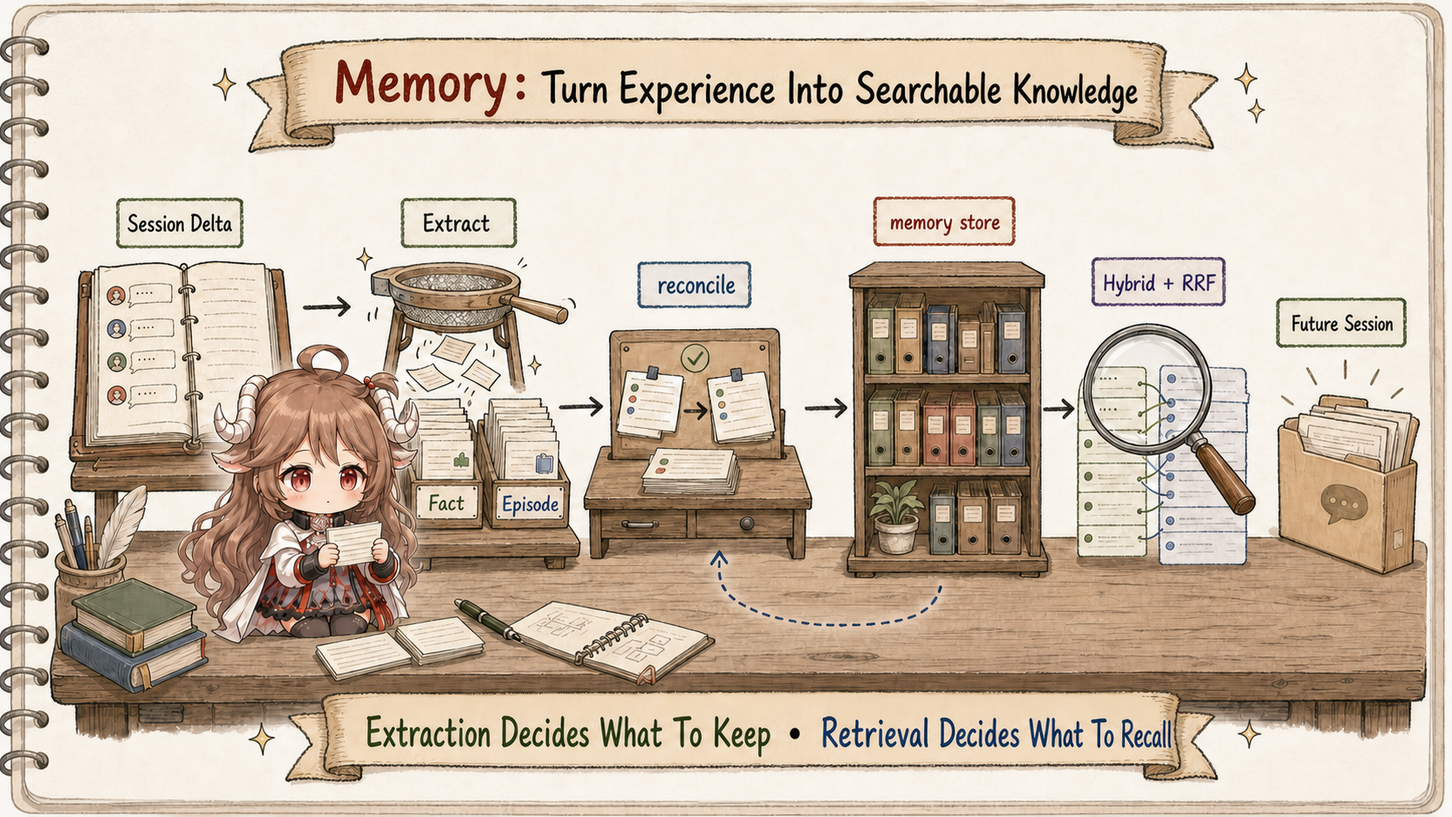
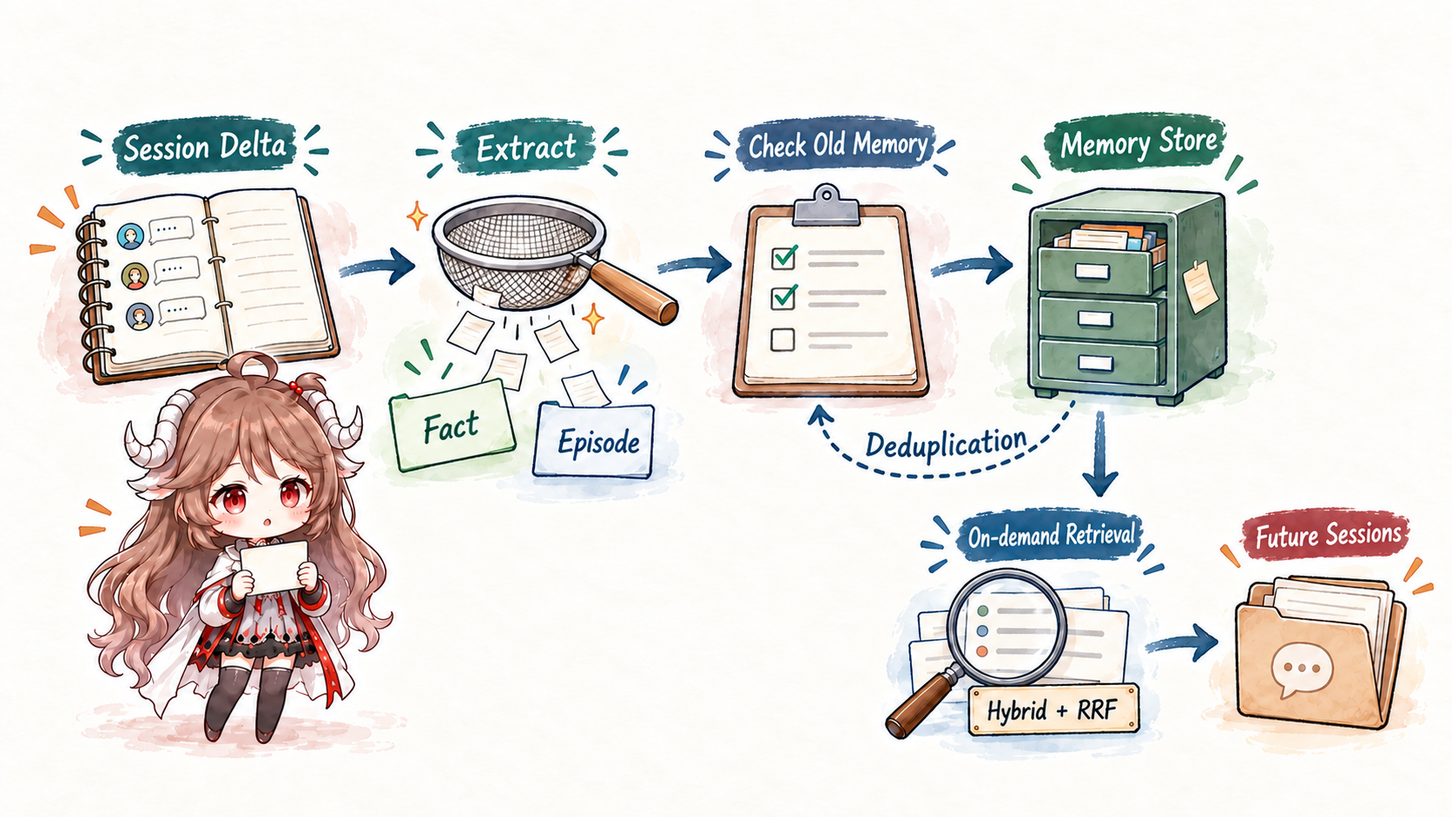
Update tRPC memory policies and durable update contracts

diff --git a/agent-framework/en/trpc-agent-go-memory/index.html b/agent-framework/en/trpc-agent-go-memory/index.html
@@ -66,12 +66,12 @@
               follows Rememorio's implementation and tests it against 1,986 questions from LoCoMo-10.
             </p>
             <div class="meta-line"><span>Topic: Durable Memory</span><span>Write: delta → extract → reconcile</span><span>Store: Fact / Episode</span><span>Read: Hybrid + RRF</span><span>Evidence: LoCoMo-10</span></div>
-            <figure class="hero-image"><img src="../assets/trpc-agent-go-memory-lifecycle.png" alt="Hand-drawn tRPC-Agent-Go Memory lifecycle: a session delta is extracted into Fact and Episode cards, reconciled into a memory store, and retrieved with Hybrid plus RRF for a future session. The invariant says extraction decides what to keep and retrieval decides what to recall." /></figure>
+            <figure class="hero-image"><img src="../assets/trpc-agent-go-memory-lifecycle.png" alt="tRPC-Agent-Go Memory lifecycle: session deltas yield Facts and Episodes, pass old-memory checks into storage, and reach later sessions through Hybrid + RRF retrieval." /><figcaption>“Check Old Memory” summarizes the default similarity-merge path; history-preserving and append-only policies also enforce their rules before writing. Hybrid + RRF denotes supporting backends; a future session sees memories only after preload or explicit retrieval.</figcaption></figure>
           </section>
 
           <section class="article-body">
             <div class="note key-point"><p><strong>Separate the two record types first.</strong> The previous chapter uses Summary and Session Recall to shorten a current session and recover raw evidence. Memory asks which knowledge should survive into another session. Both help a model recall the past, but they read from and write to different places.</p></div>
-            <div class="note"><p><strong>Source scope.</strong> Implementation links are pinned to public snapshot <code>0c7774187da9330144df2a038ef18ee89ef2ae1c</code>; experiments are pinned to benchmark snapshot <code>c9aabe56c0eb1cb80e927d2a34ecc72658173cbe</code>. Rememorio introduced the initial service in the <a href="https://github.com/trpc-group/trpc-agent-go/commit/b86db0de90d13b6fccd4c98795403029fd95f5f9">commit corresponding to #70</a>. Results describe one model, prompt, storage backend, and retrieval budget; they are not a universal deployment guarantee.</p></div>
+            <div class="note"><p><strong>Source scope.</strong> Implementation links are pinned to public snapshot <code>e76458566eece2ca33c3da28fadd1691929fb46a</code>; experiments are pinned to benchmark snapshot <code>c9aabe56c0eb1cb80e927d2a34ecc72658173cbe</code>. Rememorio introduced the initial service in the <a href="https://github.com/trpc-group/trpc-agent-go/commit/b86db0de90d13b6fccd4c98795403029fd95f5f9">commit corresponding to #70</a>. Results describe one model, prompt, storage backend, and retrieval budget; they are not a universal deployment guarantee.</p></div>
             <div class="note"><p><strong>Questions this article answers.</strong> Keep one fact in view: “the user upgraded production from Go 1.23 to 1.24.” By the end, you should be able to explain which delta Runner hands off, why the extractor proposes update rather than add, how deterministic reconcile prevents duplicate writes, where the final entry lives, and how a new Session retrieves it within a bounded budget.</p></div>
 
             <h2>1. Why Summary cannot double as Memory</h2>
@@ -89,7 +89,7 @@
             <p>
               Source types encode that distinction. <code>KindFact</code> covers preferences, identity, and background; <code>KindEpisode</code>
               covers an event at a time and may carry <code>event_time</code>, <code>participants</code>, and <code>location</code>. Entries are isolated
-              by <code>AppName + UserID</code>. See <a href="https://github.com/trpc-group/trpc-agent-go/blob/0c7774187da9330144df2a038ef18ee89ef2ae1c/memory/memory.go#L213-L247"><code>Kind</code>, <code>Memory</code>, and <code>Entry</code></a>.
+              by <code>AppName + UserID</code>. See <a href="https://github.com/trpc-group/trpc-agent-go/blob/e76458566eece2ca33c3da28fadd1691929fb46a/memory/memory.go#L218-L252"><code>Kind</code>, <code>Memory</code>, and <code>Entry</code></a>.
             </p>
 
             <h2 id="memory-lifecycle">2. Follow one Fact through the write lifecycle</h2>
@@ -97,8 +97,8 @@
             <p>
               Auto memory does not write after every sentence. After a run, the service hands Session to a worker. The worker reads the last extraction
               timestamp, scans newer events, keeps non-empty user and assistant text, and excludes tool messages and tool calls. A checker may stop here
-              when the delta is not worth extracting. See <a href="https://github.com/trpc-group/trpc-agent-go/blob/0c7774187da9330144df2a038ef18ee89ef2ae1c/memory/internal/memory/auto.go#L267-L339"><code>EnqueueJob</code></a>
-              and <a href="https://github.com/trpc-group/trpc-agent-go/blob/0c7774187da9330144df2a038ef18ee89ef2ae1c/memory/internal/memory/auto.go#L694-L739"><code>scanDeltaSince</code></a>.
+              when the delta is not worth extracting. See <a href="https://github.com/trpc-group/trpc-agent-go/blob/e76458566eece2ca33c3da28fadd1691929fb46a/memory/internal/memory/auto.go#L339-L415"><code>EnqueueJob</code></a>
+              and <a href="https://github.com/trpc-group/trpc-agent-go/blob/e76458566eece2ca33c3da28fadd1691929fb46a/memory/internal/memory/auto.go#L799-L855"><code>scanDeltaSince</code></a>.
             </p>
             <pre><code class="language-text">full Session
   └─ delta after last extraction
@@ -113,7 +113,7 @@ MemoryJob = {UserKey, delta messages, latest timestamp}</code></pre>
               <code>func(*ExtractionContext) bool</code>, that receives the user key, filtered delta messages, and optional last-extraction time.
               No configured checker means proceed. Built-ins include “message count is strictly greater than n” and “more than this interval has elapsed,”
               while <code>ChecksAll</code> and <code>ChecksAny</code> compose AND and OR policies. False is a normal no-op: no extractor call, no Memory write,
-              and no cursor advance. The interface has no error channel. See <a href="https://github.com/trpc-group/trpc-agent-go/blob/0c7774187da9330144df2a038ef18ee89ef2ae1c/memory/extractor/checker.go#L20-L85"><code>Checker</code> and its built-ins</a>.
+              and no cursor advance. The interface has no error channel. See <a href="https://github.com/trpc-group/trpc-agent-go/blob/e76458566eece2ca33c3da28fadd1691929fb46a/memory/extractor/checker.go#L20-L85"><code>Checker</code> and its built-ins</a>.
             </p>
             <pre><code class="language-go">// memory/extractor/checker.go and memory.go (excerpt)
 type Checker func(ctx *ExtractionContext) bool
@@ -158,8 +158,8 @@ func (e *memoryExtractor) ShouldExtract(ctx *ExtractionContext) bool {
             <p>
               If the store already says "Go 1.23" and the new conversation says "we upgraded to 1.24," a blind append creates a conflict. The worker
               builds a query from the new user messages, retrieves related entries, and gives both old memories and new conversation to the extractor.
-              The model proposes add, update, delete, or clear operations rather than free-form prose. See <a href="https://github.com/trpc-group/trpc-agent-go/blob/0c7774187da9330144df2a038ef18ee89ef2ae1c/memory/internal/memory/auto.go#L410-L451"><code>createAutoMemory</code></a>
-              and <a href="https://github.com/trpc-group/trpc-agent-go/blob/0c7774187da9330144df2a038ef18ee89ef2ae1c/memory/extractor/memory.go#L110-L182"><code>Extract</code></a>.
+              The model proposes add, update, delete, or clear operations rather than free-form prose. See <a href="https://github.com/trpc-group/trpc-agent-go/blob/e76458566eece2ca33c3da28fadd1691929fb46a/memory/internal/memory/auto.go#L486-L554"><code>createAutoMemory</code></a>
+              and <a href="https://github.com/trpc-group/trpc-agent-go/blob/e76458566eece2ca33c3da28fadd1691929fb46a/memory/extractor/memory.go#L115-L215"><code>Extract</code></a>.
             </p>
             <p>
               Existing-memory lookup has its own fallback. When relevance search fails, the worker reads a small recent set as deduplication context.
@@ -186,7 +186,7 @@ extractor proposal
 
             <h3>2.4 Reconcile stops paraphrased duplicates before the store</h3>
             <p>
-              The model may still propose add for the upgrade. For each add, the worker retrieves at most three candidates and compares two independent signals:
+              Under the default <code>merge_similar</code> policy, the model may still propose add for the upgrade. For each add, the worker retrieves at most three candidates and compares two independent signals:
               the backend's relevance score and token-level Jaccard overlap. The signals use logical OR. Vector stores are good at semantic paraphrase;
               keyword stores often produce lower BM25-like scores; Jaccard catches common entity names and exact versions.
             </p>
@@ -215,13 +215,21 @@ func reconcileDecisionTier(score, jaccard float64) int {
               Candidate tier is compared before score and Jaccard, so a clear duplicate is not displaced by a merely related entry with a slightly higher score.
               A reconcile-search failure preserves the extractor's original operation rather than dropping uncertain data. If add becomes update but the deployment
               disables update, the worker falls back to the original add. <strong>The LLM proposes semantic operations; deterministic code owns idempotence
-              and capability boundaries.</strong> See the <a href="https://github.com/trpc-group/trpc-agent-go/blob/0c7774187da9330144df2a038ef18ee89ef2ae1c/memory/internal/memory/auto.go#L30-L121">reconcile tiers</a>.
+              and capability boundaries.</strong> See the <a href="https://github.com/trpc-group/trpc-agent-go/blob/e76458566eece2ca33c3da28fadd1691929fb46a/memory/internal/memory/auto.go#L33-L124">reconcile tiers</a>.
             </p>
             <p>
               The switch makes “either condition” literal. Search score and Jaccard are not added into an undocumented composite score; they are independent
               evidence sources. The high tier appears first, so a candidate satisfying both skip and update always becomes skip. Only two weak signals preserve
               the original add. The model proposes an operation, while ordinary Go control flow owns the final tier.
             </p>
+
+            <p>Similarity merging is not right for every application. If the Go upgrade example must later answer “which version preceded the upgrade?”, replacing the old fact loses useful history. The built-in extractor's <a href="https://github.com/trpc-group/trpc-agent-go/blob/e76458566eece2ca33c3da28fadd1691929fb46a/memory/extractor/policy.go#L17-L35"><code>WithUpdatePolicy</code></a> exposes two opt-in alternatives; leaving it unset preserves the default above.</p>
+            <div class="table-wrap"><table><thead><tr><th>Policy</th><th>Storing the Go version change</th><th>Worker enforcement</th></tr></thead><tbody>
+              <tr><td><code>merge_similar</code> (default)</td><td>A similar fact may update the old entry.</td><td>Uses the score / Jaccard reconcile described above.</td></tr>
+              <tr><td><code>preserve_history</code></td><td>Prefer another entry for corrections and state changes.</td><td>Only non-conflicting enrichment that retains the old details can update; uncertain matches become adds.</td></tr>
+              <tr><td><code>append_only</code></td><td>Add the new version; skip exact duplicates.</td><td>The model sees only add; the worker also converts unexpected updates to adds and filters delete / clear.</td></tr>
+            </tbody></table></div>
+            <p>This is more than prompt advice. <a href="https://github.com/trpc-group/trpc-agent-go/blob/e76458566eece2ca33c3da28fadd1691929fb46a/memory/internal/memory/auto_policy.go#L65-L131"><code>applyUpdatePolicy</code></a> dispatches again before storage. History preservation uses deterministic text and metadata checks, not a guarantee that every semantic conflict is understood. Keeping old entries also enlarges retrieval candidates, so readers still need time and provenance to choose the applicable version.</p>
 
             <h3>2.5 The write completion point controls retry</h3>
             <p>
@@ -239,7 +247,7 @@ func reconcileDecisionTier(score, jaccard float64) int {
               Session, not the Memory store, owns this incremental cursor. The framework writes the timestamp of the last included Event to
               <code>Session.State["memory:last_extract_at"]</code>. It is not in one storage transaction with add, update, or delete, so it means
               “the worker processed through this point,” not “every Memory operation in the batch committed.” Production observability needs both operation-level
-              errors and this cursor. See <a href="https://github.com/trpc-group/trpc-agent-go/blob/0c7774187da9330144df2a038ef18ee89ef2ae1c/memory/internal/memory/auto.go#L673-L691"><code>readLastExtractAt</code> and <code>writeLastExtractAt</code></a>.
+              errors and this cursor. See <a href="https://github.com/trpc-group/trpc-agent-go/blob/e76458566eece2ca33c3da28fadd1691929fb46a/memory/internal/memory/auto.go#L778-L796"><code>readLastExtractAt</code> and <code>writeLastExtractAt</code></a>.
             </p>
             <p>
               Carrying <code>memory-17</code> through the remaining stages exposes what still separates a model proposal from cross-session recall:
@@ -270,17 +278,16 @@ func reconcileDecisionTier(score, jaccard float64) int {
      -&gt; preload / search
      -&gt; this model request sees Go 1.24</code></pre>
             <p>
-              The update request locates its target with the old ID. Some content-addressed backends rotate to a canonical ID derived from the new
-              content and metadata, while others may update in place. The durable cross-session partition is therefore
-              <code>AppName + UserID</code>, not an application holding <code>memory-17</code> forever. Only stage 3 creates durable Memory;
-              only a preload or active search hit in stage 4 makes that Memory adopted by a later model call.
+              The update locates an active source by its old ID. Changed content or identity-bearing episode metadata can rotate the canonical ID; unchanged identity updates in place, and topics do not determine identity. In-memory, Redis, and SQL backends now share the same contract: an active target conflict leaves both records unchanged; a missing or soft-deleted target can receive the rotation. <code>UpdateResult.MemoryID</code> changes only after successful persistence and remains unchanged on error. See the <a href="https://github.com/trpc-group/trpc-agent-go/blob/e76458566eece2ca33c3da28fadd1691929fb46a/memory/memory.go#L180-L193">update contract</a>. Across Sessions, use <code>AppName + UserID</code> to retrieve the user's memories instead of treating an old memory ID as permanent. Step 3 must succeed for durable memory to exist; step 4 must retrieve it before the model actually uses it.
             </p>
+
+            <p><a href="https://github.com/trpc-group/trpc-agent-go/blob/e76458566eece2ca33c3da28fadd1691929fb46a/memory/extractor/assistant.go#L75-L145"><code>WithAssistantEpisodeExtraction</code></a> adds an optional second stage: after ordinary extraction, it selects reusable user/assistant pairs and stores the assistant's advice as ordinary Episodes. It is off by default and introduces no new memory kind. No eligible pair, disabled add, or an ambiguous deletion scope skips this stage. Its own failure normally preserves ordinary operations; cancellation of the parent job still returns an error. Future turns can remember “what troubleshooting was suggested” without claiming the user performed it. This is also separate from the next chapter's Skill publication.</p>
 
             <h3>2.6 Storage fields exist to support retrieval</h3>
             <p>
               Fact versus Episode, absolute time, topics, participants, and location matter at query time. "What happened first?" needs event-time ordering;
               "which mountain did Alice visit?" must validate participants; proper nouns often need lexical matching. Search options therefore include kind,
-              time ranges, ordering, deduplication, hybrid search, and RRF. See <a href="https://github.com/trpc-group/trpc-agent-go/blob/0c7774187da9330144df2a038ef18ee89ef2ae1c/memory/memory.go#L277-L320"><code>SearchOptions</code></a>.
+              time ranges, ordering, deduplication, hybrid search, and RRF. See <a href="https://github.com/trpc-group/trpc-agent-go/blob/e76458566eece2ca33c3da28fadd1691929fb46a/memory/memory.go#L282-L325"><code>SearchOptions</code></a>.
             </p>
 
             <h2>3. Read Memory into a new Session, then make retrieval precise</h2>
@@ -327,7 +334,7 @@ return newPreloadMemoryMessage(memories, p.PreloadMemoryPlaybook)</code></pre>
               A small set does not need a relevance search. Above the budget, the processor derives a query from the current user message. A search error or
               empty result falls back to reading the most recent N entries. If the probe or fallback read also fails, this request gets no Memory injection but
               still proceeds. Preloaded content is a system message by default, with an option to place it near user/history context. Follow the complete branch in
-              <a href="https://github.com/trpc-group/trpc-agent-go/blob/0c7774187da9330144df2a038ef18ee89ef2ae1c/internal/flow/processor/content.go#L3192-L3294"><code>getPreloadMemoryMessage</code></a>.
+              <a href="https://github.com/trpc-group/trpc-agent-go/blob/e76458566eece2ca33c3da28fadd1691929fb46a/internal/flow/processor/content.go#L4112-L4214"><code>getPreloadMemoryMessage</code></a>.
             </p>
             <p>
               <code>budget+1</code> is a small but important implementation trick: the processor avoids an expensive count by reading only one entry beyond the
@@ -346,7 +353,7 @@ return newPreloadMemoryMessage(memories, p.PreloadMemoryPlaybook)</code></pre>
             <p>
               Vector search handles paraphrase but may under-rank book titles, place names, and exact versions. Keyword search handles exact strings but not
               semantic rewrites. The pgvector backend runs vector and full-text search, merges ranks through Reciprocal Rank Fusion, retries without a kind
-              filter when that filter returns too little, then deduplicates content. The order is visible in <a href="https://github.com/trpc-group/trpc-agent-go/blob/0c7774187da9330144df2a038ef18ee89ef2ae1c/memory/pgvector/service.go#L540-L645"><code>SearchMemories</code></a>.
+              filter when that filter returns too little, then deduplicates content. The order is visible in <a href="https://github.com/trpc-group/trpc-agent-go/blob/e76458566eece2ca33c3da28fadd1691929fb46a/memory/pgvector/service.go#L721-L826"><code>SearchMemories</code></a>.
             </p>
             <pre><code class="language-text">vector rank:   [Mt. Fuji trip, hiking preference, Alice profile]
 keyword rank:  [Alice + Mt. Fuji, Mt. Fuji trip]
@@ -376,7 +383,7 @@ dedupe:        remove near-identical restatements</code></pre>
             <p>
               "What did Alice buy before Japan, and what did she do after returning?" often exceeds one top-k. The optimized benchmark agent uses two or
               three short searches from entity, time, and sub-question angles, then combines evidence. Tool guidance explicitly recommends separate searches
-              for multi-part questions and checking participants before using a result. See <a href="https://github.com/trpc-group/trpc-agent-go/blob/0c7774187da9330144df2a038ef18ee89ef2ae1c/memory/tool/tool.go#L249-L310"><code>memory_search</code></a>.
+              for multi-part questions and checking participants before using a result. See <a href="https://github.com/trpc-group/trpc-agent-go/blob/e76458566eece2ca33c3da28fadd1691929fb46a/memory/tool/tool.go#L249-L310"><code>memory_search</code></a>.
             </p>
             <p>That choice is not free. Repeated searches make the model reread prior context, increasing both tokens and latency. A useful benchmark must report Tokens/QA, Calls/QA, and latency beside F1.</p>
 
@@ -464,11 +471,11 @@ dedupe:        remove near-identical restatements</code></pre>
 
             <h2 id="sources">Sources and experiments</h2>
             <ul>
-              <li><a href="https://github.com/trpc-group/trpc-agent-go/tree/0c7774187da9330144df2a038ef18ee89ef2ae1c">tRPC-Agent-Go public source snapshot</a></li>
-              <li><a href="https://github.com/trpc-group/trpc-agent-go/blob/0c7774187da9330144df2a038ef18ee89ef2ae1c/memory/memory.go">Memory service, entry, and search contracts</a></li>
-              <li><a href="https://github.com/trpc-group/trpc-agent-go/blob/0c7774187da9330144df2a038ef18ee89ef2ae1c/memory/internal/memory/auto.go">Auto-memory worker</a></li>
-              <li><a href="https://github.com/trpc-group/trpc-agent-go/blob/0c7774187da9330144df2a038ef18ee89ef2ae1c/memory/extractor/memory.go">Memory extractor</a></li>
-              <li><a href="https://github.com/trpc-group/trpc-agent-go/blob/0c7774187da9330144df2a038ef18ee89ef2ae1c/memory/pgvector/service.go">pgvector hybrid retrieval</a></li>
+              <li><a href="https://github.com/trpc-group/trpc-agent-go/tree/e76458566eece2ca33c3da28fadd1691929fb46a">tRPC-Agent-Go public source snapshot</a></li>
+              <li><a href="https://github.com/trpc-group/trpc-agent-go/blob/e76458566eece2ca33c3da28fadd1691929fb46a/memory/memory.go">Memory service, entry, and search contracts</a></li>
+              <li><a href="https://github.com/trpc-group/trpc-agent-go/blob/e76458566eece2ca33c3da28fadd1691929fb46a/memory/internal/memory/auto.go">Auto-memory worker</a></li>
+              <li><a href="https://github.com/trpc-group/trpc-agent-go/blob/e76458566eece2ca33c3da28fadd1691929fb46a/memory/extractor/memory.go">Memory extractor</a></li>
+              <li><a href="https://github.com/trpc-group/trpc-agent-go/blob/e76458566eece2ca33c3da28fadd1691929fb46a/memory/pgvector/service.go">pgvector hybrid retrieval</a></li>
               <li><a href="https://github.com/trpc-group/trpc-agent-go-benchmark/blob/c9aabe56c0eb1cb80e927d2a34ecc72658173cbe/memory/results/REPORT.md">LoCoMo-10 Memory benchmark report</a></li>
             </ul>
           </section>

diff --git a/agent-framework/zh/trpc-agent-go-memory/index.html b/agent-framework/zh/trpc-agent-go-memory/index.html
@@ -68,13 +68,13 @@
               <span>主题：长期 Memory</span><span>写入：delta → extract → reconcile</span><span>存储：Fact / Episode</span><span>读取：Hybrid + RRF</span><span>证据：LoCoMo-10</span>
             </div>
             <figure class="hero-image">
-              <img src="../assets/trpc-agent-go-memory-lifecycle.png" alt="tRPC-Agent-Go Memory 手绘生命周期：会话增量经过提取形成 Fact 与 Episode，经 reconcile 写入 memory store，再由 Hybrid + RRF 检索进入未来会话；底部结论是抽取决定写什么，检索决定想起什么。" />
-            </figure>
+              <img src="../assets/trpc-agent-go-memory-lifecycle.png" alt="tRPC-Agent-Go Memory 生命周期：会话增量经过提取形成 Fact 与 Episode，核对旧记忆后写入存储，再由 Hybrid + RRF 检索进入后续会话。" />
+            <figcaption>图中“核对旧记忆”概括默认的相似度合并路径；历史保留与只追加策略仍在写入前执行约束。Hybrid + RRF 代表支持该能力的检索后端，Memory 必须被预载或主动查询命中后才进入未来会话。</figcaption></figure>
           </section>
 
           <section class="article-body">
             <div class="note key-point"><p><strong>先分清两类记录。</strong>上一篇的 Summary 与 Session Recall 负责“当前会话怎样压短、怎样找回原始事件”；这一篇的 Memory 负责“哪些知识值得跨会话留下”。它们都能帮助模型想起过去，但读取和写入的位置不同。</p></div>
-            <div class="note"><p><strong>本文依据。</strong>实现链接固定到公开快照 <code>0c7774187da9330144df2a038ef18ee89ef2ae1c</code>，实验链接固定到 Benchmark 快照 <code>c9aabe56c0eb1cb80e927d2a34ecc72658173cbe</code>。Memory 的初始服务由 Rememorio 在 <a href="https://github.com/trpc-group/trpc-agent-go/commit/b86db0de90d13b6fccd4c98795403029fd95f5f9">#70 对应提交</a>引入；本文数字是特定模型、Prompt、存储后端和检索预算下的实验结果，不外推成所有部署的保证。</p></div>
+            <div class="note"><p><strong>本文依据。</strong>实现链接固定到公开快照 <code>e76458566eece2ca33c3da28fadd1691929fb46a</code>，实验链接固定到 Benchmark 快照 <code>c9aabe56c0eb1cb80e927d2a34ecc72658173cbe</code>。Memory 的初始服务由 Rememorio 在 <a href="https://github.com/trpc-group/trpc-agent-go/commit/b86db0de90d13b6fccd4c98795403029fd95f5f9">#70 对应提交</a>引入；本文数字是特定模型、Prompt、存储后端和检索预算下的实验结果，不外推成所有部署的保证。</p></div>
             <div class="note"><p><strong>读完后你应该能回答。</strong>请一直跟踪“用户已经从 Go 1.23 升级到 1.24”这条信息：Runner 何时交出哪些新消息，Extractor 为什么提议 Update 而不是 Add，确定性 Reconcile 怎样避免重复写入，最终条目存在哪里，以及新 Session 如何在有限预算内把它找回来。</p></div>
 
             <h2>一、为什么 Summary 不能顺便充当 Memory</h2>
@@ -92,7 +92,7 @@
             <p>
               源码把这个区别做进数据结构：<code>KindFact</code> 表示偏好、身份和背景，<code>KindEpisode</code> 表示发生在某个时间的事件，
               还可以带 <code>event_time</code>、<code>participants</code> 与 <code>location</code>。条目按 <code>AppName + UserID</code> 隔离。
-              见 <a href="https://github.com/trpc-group/trpc-agent-go/blob/0c7774187da9330144df2a038ef18ee89ef2ae1c/memory/memory.go#L213-L247"><code>Kind</code>、<code>Memory</code> 与 <code>Entry</code></a>。
+              见 <a href="https://github.com/trpc-group/trpc-agent-go/blob/e76458566eece2ca33c3da28fadd1691929fb46a/memory/memory.go#L218-L252"><code>Kind</code>、<code>Memory</code> 与 <code>Entry</code></a>。
             </p>
 
             <h2 id="memory-lifecycle">二、跟着一条事实走完写入生命周期</h2>
@@ -100,8 +100,8 @@
             <p>
               Auto memory 不是每收到一句话就写库。run 完成后，服务把 Session 交给 worker；worker 读取上次抽取时间，扫描之后新增的事件，
               只保留有正文的 user / assistant 消息，跳过 tool message、tool call 和空内容。若 checker 判断这批增量还不值得抽取，就到此为止。
-              入口见 <a href="https://github.com/trpc-group/trpc-agent-go/blob/0c7774187da9330144df2a038ef18ee89ef2ae1c/memory/internal/memory/auto.go#L267-L339"><code>EnqueueJob</code></a>，
-              增量过滤见 <a href="https://github.com/trpc-group/trpc-agent-go/blob/0c7774187da9330144df2a038ef18ee89ef2ae1c/memory/internal/memory/auto.go#L694-L739"><code>scanDeltaSince</code></a>。
+              入口见 <a href="https://github.com/trpc-group/trpc-agent-go/blob/e76458566eece2ca33c3da28fadd1691929fb46a/memory/internal/memory/auto.go#L339-L415"><code>EnqueueJob</code></a>，
+              增量过滤见 <a href="https://github.com/trpc-group/trpc-agent-go/blob/e76458566eece2ca33c3da28fadd1691929fb46a/memory/internal/memory/auto.go#L799-L855"><code>scanDeltaSince</code></a>。
             </p>
             <pre><code class="language-text">完整 Session
   └─ 上次抽取点之后的 delta
@@ -116,7 +116,7 @@ MemoryJob = {UserKey, delta messages, latest timestamp}</code></pre>
               它能看到用户键、过滤后的增量消息和上次抽取时间；没有配置 checker 时默认通过。内置条件包括
               “消息数严格大于 n”与“距离上次抽取超过一段时间”，还可以用 <code>ChecksAll</code> / <code>ChecksAny</code>
               组合成 AND / OR。返回 false 是正常 no-op：不调用 extractor、不写 Memory，也不推进 cursor；这个接口本身没有 error 通道。
-              定义见 <a href="https://github.com/trpc-group/trpc-agent-go/blob/0c7774187da9330144df2a038ef18ee89ef2ae1c/memory/extractor/checker.go#L20-L85"><code>Checker</code> 与内置条件</a>。
+              定义见 <a href="https://github.com/trpc-group/trpc-agent-go/blob/e76458566eece2ca33c3da28fadd1691929fb46a/memory/extractor/checker.go#L20-L85"><code>Checker</code> 与内置条件</a>。
             </p>
             <pre><code class="language-go">// memory/extractor/checker.go 与 memory.go（节选）
 type Checker func(ctx *ExtractionContext) bool
@@ -161,8 +161,8 @@ func (e *memoryExtractor) ShouldExtract(ctx *ExtractionContext) bool {
             <p>
               如果库里已经有“用户使用 Go 1.23”，新对话说“已经升级到 1.24”，直接追加会制造冲突。worker 先用这批用户消息构造查询，
               找回相关旧条目，再把“旧记忆 + 新对话”一起交给 extractor。这样模型输出的不是一段自由文本，而是 add、update、delete 或 clear 操作。
-              路径在 <a href="https://github.com/trpc-group/trpc-agent-go/blob/0c7774187da9330144df2a038ef18ee89ef2ae1c/memory/internal/memory/auto.go#L410-L451"><code>createAutoMemory</code></a>；
-              extractor 把主 choice 的 tool calls 解析为操作，见 <a href="https://github.com/trpc-group/trpc-agent-go/blob/0c7774187da9330144df2a038ef18ee89ef2ae1c/memory/extractor/memory.go#L110-L182"><code>Extract</code></a>。
+              路径在 <a href="https://github.com/trpc-group/trpc-agent-go/blob/e76458566eece2ca33c3da28fadd1691929fb46a/memory/internal/memory/auto.go#L486-L554"><code>createAutoMemory</code></a>；
+              extractor 把主 choice 的 tool calls 解析为操作，见 <a href="https://github.com/trpc-group/trpc-agent-go/blob/e76458566eece2ca33c3da28fadd1691929fb46a/memory/extractor/memory.go#L115-L215"><code>Extract</code></a>。
             </p>
             <p>
               查旧条目本身也有降级：相关性搜索报错时，worker 读取少量最近 Memory 作为 dedup 上下文；只有搜索与 fallback read 都失败，
@@ -188,7 +188,7 @@ extractor 提议
 
             <h3>2.4 Reconcile 怎样把“换一种说法”挡在写库之前</h3>
             <p>
-              模型有时仍会把升级事实提议成 add。worker 会对每个 add 额外检索最多 3 条候选，并用两个独立信号比较：后端返回的相关分数，
+              默认 <code>merge_similar</code> 策略下，模型有时仍会把升级事实提议成 add。worker 会对每个 add 额外检索最多 3 条候选，并用两个独立信号比较：后端返回的相关分数，
               以及候选文本与旧条目的 token Jaccard 重合度。两个信号用“或”连接，是因为向量后端擅长语义改写，关键词后端的 BM25
               分数通常更低，而 Jaccard 能抓住版本号、实体名等共同词。
             </p>
@@ -217,13 +217,21 @@ func reconcileDecisionTier(score, jaccard float64) int {
               先比较层级，再比较 score 和 Jaccard，确保“明确重复”不会被另一条分数略高但只是相关的记忆抢走。
               reconcile 自身检索失败时保留 extractor 的原操作，而不是把不确定性当成重复并丢数据；若 add 被改成 update，
               但部署禁用了 update，则退回原 add。这里的设计原则才是：<strong>LLM 提议语义操作，确定性代码负责幂等与能力边界。</strong>
-              阈值与决策见 <a href="https://github.com/trpc-group/trpc-agent-go/blob/0c7774187da9330144df2a038ef18ee89ef2ae1c/memory/internal/memory/auto.go#L30-L121">reconcile tiers</a>。
+              阈值与决策见 <a href="https://github.com/trpc-group/trpc-agent-go/blob/e76458566eece2ca33c3da28fadd1691929fb46a/memory/internal/memory/auto.go#L33-L124">reconcile tiers</a>。
             </p>
             <p>
               这段 switch 解释了表格里的“满足任一条件”：搜索分数与 Jaccard 不是相加后再过一条神秘总分线，而是两个独立证据源。
               高阈值分支写在前面，所以同一候选同时满足 skip 与 update 时一定进入 skip；两个信号都不够才保留原 add。
               模型生成的是候选操作，最终 tier 完全由这段普通 Go 控制流决定。
             </p>
+
+            <p>相似度合并并不适合所有业务。仍用 Go 升级这个例子：如果系统要回答“升级前用什么版本”，覆盖旧事实就会丢掉历史。内置 extractor 的 <a href="https://github.com/trpc-group/trpc-agent-go/blob/e76458566eece2ca33c3da28fadd1691929fb46a/memory/extractor/policy.go#L17-L35"><code>WithUpdatePolicy</code></a> 因而允许显式选择另两种策略；不配置时仍保留上面的默认行为。</p>
+            <div class="table-wrap"><table><thead><tr><th>策略</th><th>Go 版本变化怎样保存</th><th>worker 的约束</th></tr></thead><tbody>
+              <tr><td><code>merge_similar</code>（默认）</td><td>相似事实可以更新旧条目。</td><td>继续使用上面的 score / Jaccard reconcile。</td></tr>
+              <tr><td><code>preserve_history</code></td><td>状态变化或纠正优先另存，保留旧版本。</td><td>只有保留原有细节的无冲突补充才更新；不确定的匹配退回 add。</td></tr>
+              <tr><td><code>append_only</code></td><td>另加新条目，精确重复不写。</td><td>只给模型 add 工具；worker 仍会把意外的 update 转为 add，并过滤 delete / clear。</td></tr>
+            </tbody></table></div>
+            <p>这不是只在 prompt 中劝模型谨慎。<a href="https://github.com/trpc-group/trpc-agent-go/blob/e76458566eece2ca33c3da28fadd1691929fb46a/memory/internal/memory/auto_policy.go#L65-L131"><code>applyUpdatePolicy</code></a> 在执行存储前再次分流；历史保留使用确定性的文本与元数据检查，不承诺理解所有语义冲突。保留历史也会扩大候选集合，读取端仍要用时间与来源选择适用版本。</p>
 
             <h3>2.5 写入成功点决定下一轮会不会重复抽取</h3>
             <p>
@@ -241,7 +249,7 @@ func reconcileDecisionTier(score, jaccard float64) int {
               这个增量 cursor 的所有者是 Session，而不是 Memory store：框架把最后一个已纳入抽取的 Event 时间写进
               <code>Session.State["memory:last_extract_at"]</code>。它与 add/update/delete 并不处在同一个存储事务里；因此它只能表示
               “worker 已经处理到哪里”，不能证明这一批每条 Memory 都写入成功。真正的运维信号必须同时包含操作级错误日志与该 cursor，
-              读写实现见 <a href="https://github.com/trpc-group/trpc-agent-go/blob/0c7774187da9330144df2a038ef18ee89ef2ae1c/memory/internal/memory/auto.go#L673-L691"><code>readLastExtractAt</code> / <code>writeLastExtractAt</code></a>。
+              读写实现见 <a href="https://github.com/trpc-group/trpc-agent-go/blob/e76458566eece2ca33c3da28fadd1691929fb46a/memory/internal/memory/auto.go#L778-L796"><code>readLastExtractAt</code> / <code>writeLastExtractAt</code></a>。
             </p>
             <p>
               把前面的 <code>memory-17</code> 继续走到底，就能看见“模型提议”和“跨会话记住”之间还隔着哪些状态：
@@ -271,16 +279,18 @@ func reconcileDecisionTier(score, jaccard float64) int {
      -&gt; preload / search
      -&gt; 本轮 model request 看见 Go 1.24</code></pre>
             <p>
-              更新请求用旧 ID 定位目标，但某些内容寻址后端会根据新正文与元数据生成新的 canonical ID，另一些后端可以原位更新；
+              更新请求用旧 ID 定位目标；新正文或参与身份计算的事件元数据变化时，会生成新的 canonical ID，只有身份未变才原位更新。<code>topics</code> 不参与身份计算。内存、Redis 与 SQL 后端现已统一轮换合同：源记录必须有效；目标已有效则报错且两条记录都不变；目标不存在或已软删除时才完成迁移。<code>UpdateResult.MemoryID</code> 只在成功持久化后写回，失败保持原值。见 <a href="https://github.com/trpc-group/trpc-agent-go/blob/e76458566eece2ca33c3da28fadd1691929fb46a/memory/memory.go#L180-L193">更新合同</a>。
               因此跨 Session 的稳定隔离键是 <code>AppName + UserID</code>，不是让业务代码长期记住 <code>memory-17</code>。
               只有第 3 步成功，才产生 durable Memory；只有第 4 步的 preload 或主动搜索命中，它才被后续模型实际采用。
             </p>
+
+            <p>另外，<a href="https://github.com/trpc-group/trpc-agent-go/blob/e76458566eece2ca33c3da28fadd1691929fb46a/memory/extractor/assistant.go#L75-L145"><code>WithAssistantEpisodeExtraction</code></a> 可显式开启第二阶段：普通抽取完成后，挑选有复用价值的 user/assistant 配对，把助手给出的方案保存为普通 Episode。默认关闭，也没有新增 memory kind。没有合格候选、禁止 add 或遗忘操作使来源不明确时，不启动这个阶段；它自身失败通常保留普通抽取结果，但父任务取消仍会返回错误。这样以后可以记住“曾建议怎样排障”，却不能把建议冒充已执行的用户事实，更不能等同于下一篇的 Skill 发布。</p>
 
             <h3>2.6 存储结构要为检索服务，不是为了字段好看</h3>
             <p>
               Fact / Episode、绝对时间、topic、参与者和地点，真正价值都在查询阶段。例如“我去年先去了哪里，再去了哪里”需要按 event time 排序；
               “Alice 去过哪座山”需要核对 participants；专有名词又常常需要关键词命中。对应搜索配置支持 kind、时间窗口、排序、去重、
-              hybrid search 与 RRF，见 <a href="https://github.com/trpc-group/trpc-agent-go/blob/0c7774187da9330144df2a038ef18ee89ef2ae1c/memory/memory.go#L277-L320"><code>SearchOptions</code></a>。
+              hybrid search 与 RRF，见 <a href="https://github.com/trpc-group/trpc-agent-go/blob/e76458566eece2ca33c3da28fadd1691929fb46a/memory/memory.go#L282-L325"><code>SearchOptions</code></a>。
             </p>
 
             <h2>三、从新 Session 读回记忆，再谈怎样搜得准</h2>
@@ -327,7 +337,7 @@ return newPreloadMemoryMessage(memories, p.PreloadMemoryPlaybook)</code></pre>
               小集合不必花一次相关性搜索；超过预算后，processor 才用当前 user message 做 query。搜索报错或返回空集时，会降级读取最近 N 条；
               probe 或 fallback read 也失败时，本轮不注入 Memory，但请求仍继续。预载内容默认作为 system message 放进 prompt，也可以切到
               user/history 附近的注入模式。整条分支见
-              <a href="https://github.com/trpc-group/trpc-agent-go/blob/0c7774187da9330144df2a038ef18ee89ef2ae1c/internal/flow/processor/content.go#L3192-L3294"><code>getPreloadMemoryMessage</code></a>。
+              <a href="https://github.com/trpc-group/trpc-agent-go/blob/e76458566eece2ca33c3da28fadd1691929fb46a/internal/flow/processor/content.go#L4112-L4214"><code>getPreloadMemoryMessage</code></a>。
             </p>
             <p>
               <code>budget+1</code> 是一个很小但关键的实现技巧：processor 不需要先做昂贵的 count，只多读一条就能判断“是否超过预算”。
@@ -344,7 +354,7 @@ return newPreloadMemoryMessage(memories, p.PreloadMemoryPlaybook)</code></pre>
             <p>
               向量搜索擅长语义近似，却可能把书名、地名和精确版本号排得不够靠前；关键词搜索擅长精确词，又不理解改写。
               pgvector 后端先做向量检索，再做全文检索，最后用 Reciprocal Rank Fusion 合并两个排名；kind 结果太少时还会去掉 kind 过滤重试，
-              最后做内容去重。完整顺序见 <a href="https://github.com/trpc-group/trpc-agent-go/blob/0c7774187da9330144df2a038ef18ee89ef2ae1c/memory/pgvector/service.go#L540-L645"><code>SearchMemories</code></a>。
+              最后做内容去重。完整顺序见 <a href="https://github.com/trpc-group/trpc-agent-go/blob/e76458566eece2ca33c3da28fadd1691929fb46a/memory/pgvector/service.go#L721-L826"><code>SearchMemories</code></a>。
             </p>
             <pre><code class="language-text">vector rank:   [Mt. Fuji trip, hiking preference, Alice profile]
 keyword rank:  [Alice + Mt. Fuji, Mt. Fuji trip]
@@ -373,7 +383,7 @@ dedupe:        remove near-identical restatements</code></pre>
             <p>
               “Alice 去日本前买了什么，回来后又做了什么？”通常不是一次 top-k 能覆盖。benchmark 里的 optimized agent 会把问题拆成 2–3 个短查询，
               从实体、时间或子问题角度分别搜索，再汇总答案。工具说明也明确建议多部分问题分别搜索，并要求用 participants 检查人名归属；
-              见 <a href="https://github.com/trpc-group/trpc-agent-go/blob/0c7774187da9330144df2a038ef18ee89ef2ae1c/memory/tool/tool.go#L249-L310"><code>memory_search</code></a>。
+              见 <a href="https://github.com/trpc-group/trpc-agent-go/blob/e76458566eece2ca33c3da28fadd1691929fb46a/memory/tool/tool.go#L249-L310"><code>memory_search</code></a>。
             </p>
             <p>
               代价也在这里：多次搜索意味着模型会反复读取已有上下文，token 和时延一起上涨。Memory benchmark 因而不能只报 F1，
@@ -468,11 +478,11 @@ dedupe:        remove near-identical restatements</code></pre>
 
             <h2 id="sources">参考源码与实验</h2>
             <ul>
-              <li><a href="https://github.com/trpc-group/trpc-agent-go/tree/0c7774187da9330144df2a038ef18ee89ef2ae1c">tRPC-Agent-Go 公开源码快照</a></li>
-              <li><a href="https://github.com/trpc-group/trpc-agent-go/blob/0c7774187da9330144df2a038ef18ee89ef2ae1c/memory/memory.go">Memory 服务、条目与搜索契约</a></li>
-              <li><a href="https://github.com/trpc-group/trpc-agent-go/blob/0c7774187da9330144df2a038ef18ee89ef2ae1c/memory/internal/memory/auto.go">Auto memory worker</a></li>
-              <li><a href="https://github.com/trpc-group/trpc-agent-go/blob/0c7774187da9330144df2a038ef18ee89ef2ae1c/memory/extractor/memory.go">Memory extractor</a></li>
-              <li><a href="https://github.com/trpc-group/trpc-agent-go/blob/0c7774187da9330144df2a038ef18ee89ef2ae1c/memory/pgvector/service.go">pgvector hybrid retrieval</a></li>
+              <li><a href="https://github.com/trpc-group/trpc-agent-go/tree/e76458566eece2ca33c3da28fadd1691929fb46a">tRPC-Agent-Go 公开源码快照</a></li>
+              <li><a href="https://github.com/trpc-group/trpc-agent-go/blob/e76458566eece2ca33c3da28fadd1691929fb46a/memory/memory.go">Memory 服务、条目与搜索契约</a></li>
+              <li><a href="https://github.com/trpc-group/trpc-agent-go/blob/e76458566eece2ca33c3da28fadd1691929fb46a/memory/internal/memory/auto.go">Auto memory worker</a></li>
+              <li><a href="https://github.com/trpc-group/trpc-agent-go/blob/e76458566eece2ca33c3da28fadd1691929fb46a/memory/extractor/memory.go">Memory extractor</a></li>
+              <li><a href="https://github.com/trpc-group/trpc-agent-go/blob/e76458566eece2ca33c3da28fadd1691929fb46a/memory/pgvector/service.go">pgvector hybrid retrieval</a></li>
               <li><a href="https://github.com/trpc-group/trpc-agent-go-benchmark/blob/c9aabe56c0eb1cb80e927d2a34ecc72658173cbe/memory/results/REPORT.md">LoCoMo-10 Memory benchmark report</a></li>
             </ul>
           </section>

diff --git a/agent-framework/zh/index.html b/agent-framework/zh/index.html
@@ -442,7 +442,7 @@
         </a>
         <a class="post-card" href="./trpc-agent-go-memory/">
           <span class="post-thumb" aria-hidden="true">
-            <img src="assets/trpc-agent-go-memory-lifecycle.png" alt="tRPC-Agent-Go Memory 手绘生命周期：会话增量抽取 Fact 与 Episode，经 reconcile 写入，再由 Hybrid 与 RRF 检索" />
+            <img src="assets/trpc-agent-go-memory-lifecycle.png" alt="tRPC-Agent-Go Memory 生命周期：会话增量经过提取形成 Fact 与 Episode，核对旧记忆后写入存储，再由 Hybrid + RRF 检索进入后续会话。" />
           </span>
           <span>
             <span class="tag">源码阅读 · 第十二篇</span>

diff --git a/agent-framework/en/index.html b/agent-framework/en/index.html
@@ -443,7 +443,7 @@
         </a>
         <a class="post-card" href="./trpc-agent-go-memory/">
           <span class="post-thumb" aria-hidden="true">
-            <img src="assets/trpc-agent-go-memory-lifecycle.png" alt="tRPC-Agent-Go Memory lifecycle showing session delta extraction into Facts and Episodes, reconciliation, and Hybrid plus RRF retrieval" />
+            <img src="assets/trpc-agent-go-memory-lifecycle.png" alt="tRPC-Agent-Go Memory lifecycle: session deltas yield Facts and Episodes, pass old-memory checks into storage, and reach later sessions through Hybrid + RRF retrieval." />
           </span>
           <span>
             <span class="tag">Source Notes · Part 12</span>
